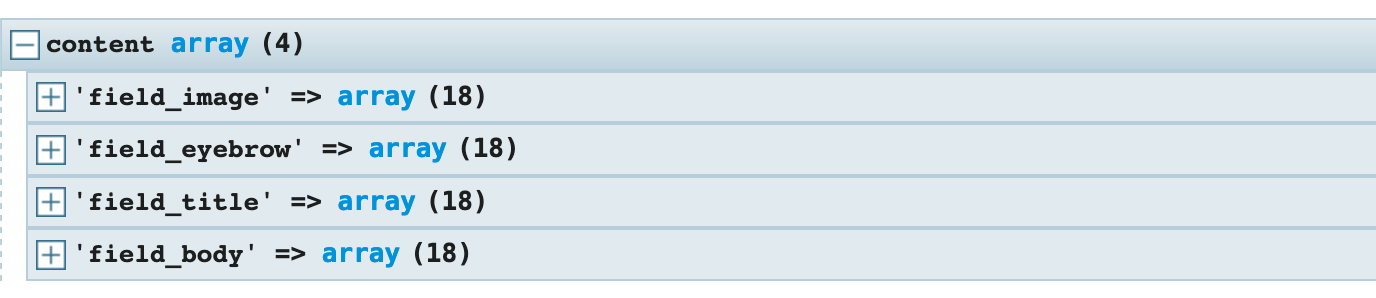
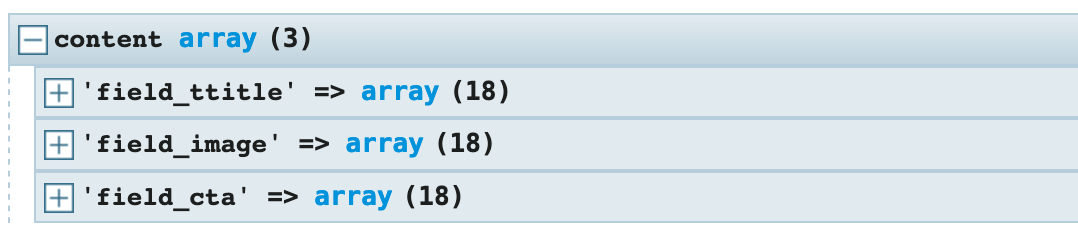
GitBook: [master] 4 pages and 4 assets modified

Changed region(s): [[0.0, 0.0294, 1.0, 0.9706]]

diff --git a/component-lifecycle/hero-component.md b/component-lifecycle/hero-component.md
@@ -1,6 +1,6 @@
 # Getting Twig variables
 
-Earlier we covered how to enable twig debugging in order to identify the right template suggestions for our components.  Twig debugging also means [discovering and inspecting twig variables](https://www.drupal.org/docs/8/theming/twig/discovering-and-inspecting-variables-in-twig-templates) available within the scope of the twig template we are working with.
+Earlier we enabled twig debugging in order to identify the right template suggestions for our components.  Twig debugging also means [discovering and inspecting twig variables](https://www.drupal.org/docs/8/theming/twig/discovering-and-inspecting-variables-in-twig-templates) available within the scope of the twig template we are working with.
 
 In addition to enabling Twig debugging, we need the [devel module](https://www.drupal.org/project/devel) which provides tools to help us identify the right variables in our templates.  One of these tools is **Kint**.  Kint provides a nice user interface to print content arrays.  This makes it easy for developers to see all available variables for the content currently being rendered on the page.
 
@@ -15,30 +15,30 @@ Kint is a PHP Debugging tool.  Kint for PHP is a tool designed to present your d
 * Clear Drupal's cache and reload the page
 * You should see output like the one below:
 
-![Example of kint output](../.gitbook/assets/kint.png)
+![](../.gitbook/assets/kint.png)
 
 {% hint style="warning" %}
-**WARNING**:  By default kint will try to print all available variables on a page unless otherwise specified.  This could slow your site down drastically and even crash it.  The fix for this is to limit the number of levels that can be viewed in a render array.  [Follow these instructions](https://gist.github.com/JPustkuchen/a5f1eaeb7058856b7ef087b028ffdfeb) to enable this fix.
+**WARNING**:  By default kint will try to print all available variables on a page unless otherwise specified.  This could slow your site down drastically and even crash it.  If you experience these issues you can fix them by limiting the number of levels that can be viewed in a render array.  [Follow these instructions](https://gist.github.com/JPustkuchen/a5f1eaeb7058856b7ef087b028ffdfeb) to enable this fix.
 {% endhint %}
 
-The example above shows us the fields or variables available in the `content` array.  Notice how each field has a **\[** **+ \]** sign next to it.  This means you can drill down each field until you get to its value.  See example below:
+The example above shows us the fields or variables available in the `content` array.  Notice how each field has a **\[** **+ \]** sign next to it.  This means each field is an array you can drill down into until you get to its value.  See example below:
 
 {% hint style="info" %}
 **TIP**: To extend an array in Kint, **DO NOT** click the **\[+\]** in the array, for some reason this crashes the page.  Instead click the the bar/row away from the **\[+\]**. 
 {% endhint %}
 
-![Example of expanded field\_eyebrow.](../.gitbook/assets/eyebrow.png)
+![](../.gitbook/assets/field-value.png)
 
-In the example above we expanded `field_eyebrow` until we get to the `value` property of it.  This shows us the actual value entered in Drupal for this field \(_A teaching website for everyone_\).  So for us to get the right field value when integrating the components with Drupal we need to declare the full field structure as shown to us by Kint. In this example it would be something like this:
+In the example above we expanded `field_title` until we get to the `value` property of it.  This shows us the actual value entered in Drupal for this field \(_Leveling up_\).  So for us to get the right field value when integrating the components with Drupal we need to declare the full field structure as shown to us by Kint. In this example it would be something like this:
 
 ```php
-content.field_eyebrow.0['#context'].value
+content.field_title.0['#context'].value
 ```
 
-However, this is not necessarily best practice.  Although using the format above to get the field's value will work, there are some issues related to Drupal caching that can arise from this approach.  A better approach would be to use the [Twig Field Value](https://www.drupal.org/project/twig_field_value) or [Twig Tweak](https://www.drupal.org/project/twig_tweak) modules.  Using one of these modules would allow us to format the field like so:
+However, this is not necessarily best practice.  Although using the format above to get the field's value will work, there are some issues related to Drupal cache validation that can arise from this approach.  A better approach would be to use the [Twig Field Value](https://www.drupal.org/project/twig_field_value) or [Twig Tweak](https://www.drupal.org/project/twig_tweak) modules.  Using one of these modules would allow us to format the field in such a way that caching validation is not compromised.  Example:
 
 ```php
-content.field_eyebrow|field_value
+content.field_title|field_value
 ```
 
 This will get us the same value but it will do it in a responsible way without breaking Drupal caching validation.

diff --git a/component-lifecycle/hero-paragraph-type.md b/component-lifecycle/hero-paragraph-type.md
@@ -1,23 +1,35 @@
-# Hero paragraph type
+# Building the Hero in Drupal
 
-Using a paragraph type will allow us to reuse these components on any page we need to.
+### Drupal entities
+
+Typically in a component-based project, Drupal will use entities to build the components infrastructure in the back end.  Entities such as content types, blocks, [paragraph](https://www.drupal.org/project/paragraphs) types, and even views, are some of the ways we can transition from a traditional development approach of building pages to a modular system of components.
+
+### Paragraphs module
+
+Paragraphs is a new way of content creation!  It allows you — Site Builders — to make things cleaner so that you can give more editing power to your end-users.
+
+Instead of putting all their content in one WYSIWYG body field including images and videos, end-users can now choose on-the-fly between pre-defined Paragraph Types independent from one another. Paragraph Types can be anything you want from a simple text block or image to a complex and configurable slideshow.
+
+![Example of paragraphs content options](../.gitbook/assets/paragraphs.png)
+
+Using a paragraph type for the Hero and other components will allow us to reuse these components on any page we need to. In Drupal we will build a custom paragraph type called Hero.  This custom entity will contain the same fields we identified when building the Hero component in Pattern Lab \(image, title, and CTA\). 
 
 {% hint style="info" %}
-**TIP:** After the Hero paragraph type has been created, you can reuse its fields in other component's paragraph types you will build later.
+**TIP:** After the Hero paragraph type has been created, you can reuse its fields in other paragraph types you will build later.
 {% endhint %}
 
-## Exercise: Create the Hero paragraph type in Drupal
+### Exercise: Create the Hero paragraph type in Drupal
 
-* Launch your local Drupal website and login with Admin rights
-* From Drupal's Admin Toolbar, click **Structure &gt; Paragraph Types**
-* Click the **Add paragraph type** button
-* Assign the Label and Machine name below
+1. Open your local Drupal website and login with Admin rights
+2. From Drupal's Admin Toolbar, click **Structure &gt; Paragraph Types**
+3. Click the **Add paragraph type** button
+4. Assign the Label and Machine name below
 
-  | Label | Machine name |
-  | :--- | :--- |
-  | Hero | `hero` |
+   | Label | Machine name |
+   | :--- | :--- |
+   | Hero | `hero` |
 
-* Click the **Save and manage fields** button
+5. Click the **Save and manage fields** button
 
 Add the following fields and settings to the paragraph type:
 
@@ -38,25 +50,25 @@ For the CTA field, set the following configuration:
 * **Allowed link type**: _Both internal and external links_
 * **Allowed link text**: _Required_
 
-## Putting the new paragraph type to use
+### Putting the new paragraph type to use
 
-Now that the paragraph type is done, it's time to add it to a content type. Paragraph types on their own are useless. They need to be added to other entities such as a content type as an **Entity Reference** field.
+Paragraph types on their own are useless. They need to be added to other entities such as a content type as an **Entity Reference** field.
 
-## Adding the paragraph type to the Basic Page content type
+### Adding the paragraph type to the Basic Page content type
 
-* From Drupal's Admin Toolbar, click **Structure \| Content Types**
-* Click the **Manage fields** button next to **Basic Page**
-* Click the **Add field** button
-* Under the _Add a new field_ dropdown, scroll to the **Reference Revisions** section and select **Paragraph**
+1. From Drupal's Admin Toolbar, click **Structure \| Content Types**
+2. Click the **Manage fields** button next to **Basic Page**
+3. Click the **Add field** button
+4. Under the _Add a new field_ dropdown, scroll to the **Reference Revisions** section and select **Paragraph**
 
-  | Label | Machine name |
-  | :--- | :--- |
-  | Hero | `field_hero` |
+   | Label | Machine name |
+   | :--- | :--- |
+   | Hero | `field_hero` |
 
-* Click the **Save and continue** button
-* Change _Allowed number of values\__ to **Limited - 1**
-* In the _Reference Type_ section, choose **Hero** under _Paragraph type_
-* Click the **Save settings** button
+5. Click the **Save and continue** button
+6. Change _Allowed number of values\__ to **Limited - 1**
+7. In the _Reference Type_ section, choose **Hero** under _Paragraph type_
+8. Click the **Save settings** button
 
 ### Create a new Node with a Hero
 

diff --git a/component-lifecycle/before-building-the-back-end.md b/component-lifecycle/before-building-the-back-end.md
@@ -1,6 +1,8 @@
-# Building Drupal's back-end
+# Drupal prep
 
-### Enable the new theme
+Before we can dive into building our component's infrastructure in Drupal, we need to get a few things ready.  Perform each of the tasks below:
+
+### Exercise: Enable the new theme
 
 Enabling our new theme is not required to build Drupal's back-end for the Hero, but it's something we need to do at some point.  Let's do it now:
 
@@ -8,18 +10,16 @@ Enabling our new theme is not required to build Drupal's back-end for the Hero, 
 2. Scroll to the **Uninstalled themes** section where you will find the new theme you created.  It should have a thumbnail image with the Mediacurrent logo
 3. Click **Install and set as default** under the theme name
 
-### Disable CSS/JavaScript Aggregation
+### Exercise: Disable CSS/JavaScript Aggregation
 
 For some reason, Drupal core comes with CSS and Javascript Aggregation turned on out of the box.  Although this is highly recommended on production websites, during development it is recommended we turn aggregation off.  This will ensure CSS and Javascript code we write will be instantly available on our drupal pages without having to continuously clearn Drupal caches.
 
 1. From Drupal's Admin toolbar click **Configuration &gt; Development &gt; Performance**
-2. Clear bot check boxes: **Aggregate CSS files** & **Aggregate JavaScript files**
+2. Clear both check boxes: **Aggregate CSS files** & **Aggregate JavaScript files**
 3. Click the **Save configuration** button
 4. While you're at it, click the **Clear all caches** button on the same page
 
-### Enable modules
-
-Before we can build Drupal's back-end for the Hero and other components, we need to enable a few modules:
+### Ecercise: Enable modules
 
 If you haven't already, enable the following modules:
 
@@ -31,12 +31,4 @@ If you haven't already, enable the following modules:
 * [Focal Point](https://www.drupal.org/project/focal_point) \(depends on [Crop API](https://www.drupal.org/project/crop)\)
 * Responsive Images \(core\)
 * Media & Media Library \(both on core\)
-
-### Drupal entities
-
-Typically in a component-based project, Drupal will use entities to build the components infrastructure in the back end.  Entities such as content types, blocks, paragraph types, and even views, are some of the ways we can transition from a traditional development approach of building pages to a modular system of components.
-
-Let's take the Hero component as an example, In Drupal we could build a custom block or a paragraph type called Hero.  This custom entity would be made of the same fields we identified when building the Hero component in Pattern Lab \(image, title, and CTA\). 
-
-Let's build a Hero Paragraph type next.
 

diff --git a/SUMMARY.md b/SUMMARY.md
@@ -21,8 +21,8 @@
 
 * [Hero Component](component-lifecycle/hero.md)
 * [Include statements](component-lifecycle/includes.md)
-* [Building Drupal's back-end](component-lifecycle/before-building-the-back-end.md)
-* [Hero paragraph type](component-lifecycle/hero-paragraph-type.md)
+* [Drupal prep](component-lifecycle/before-building-the-back-end.md)
+* [Building the Hero in Drupal](component-lifecycle/hero-paragraph-type.md)
 * [Components Integration with Drupal](component-lifecycle/before-the-integration.md)
 * [Twig template suggestions](component-lifecycle/twig-template-suggestions.md)
 * [Getting Twig variables](component-lifecycle/hero-component.md)
